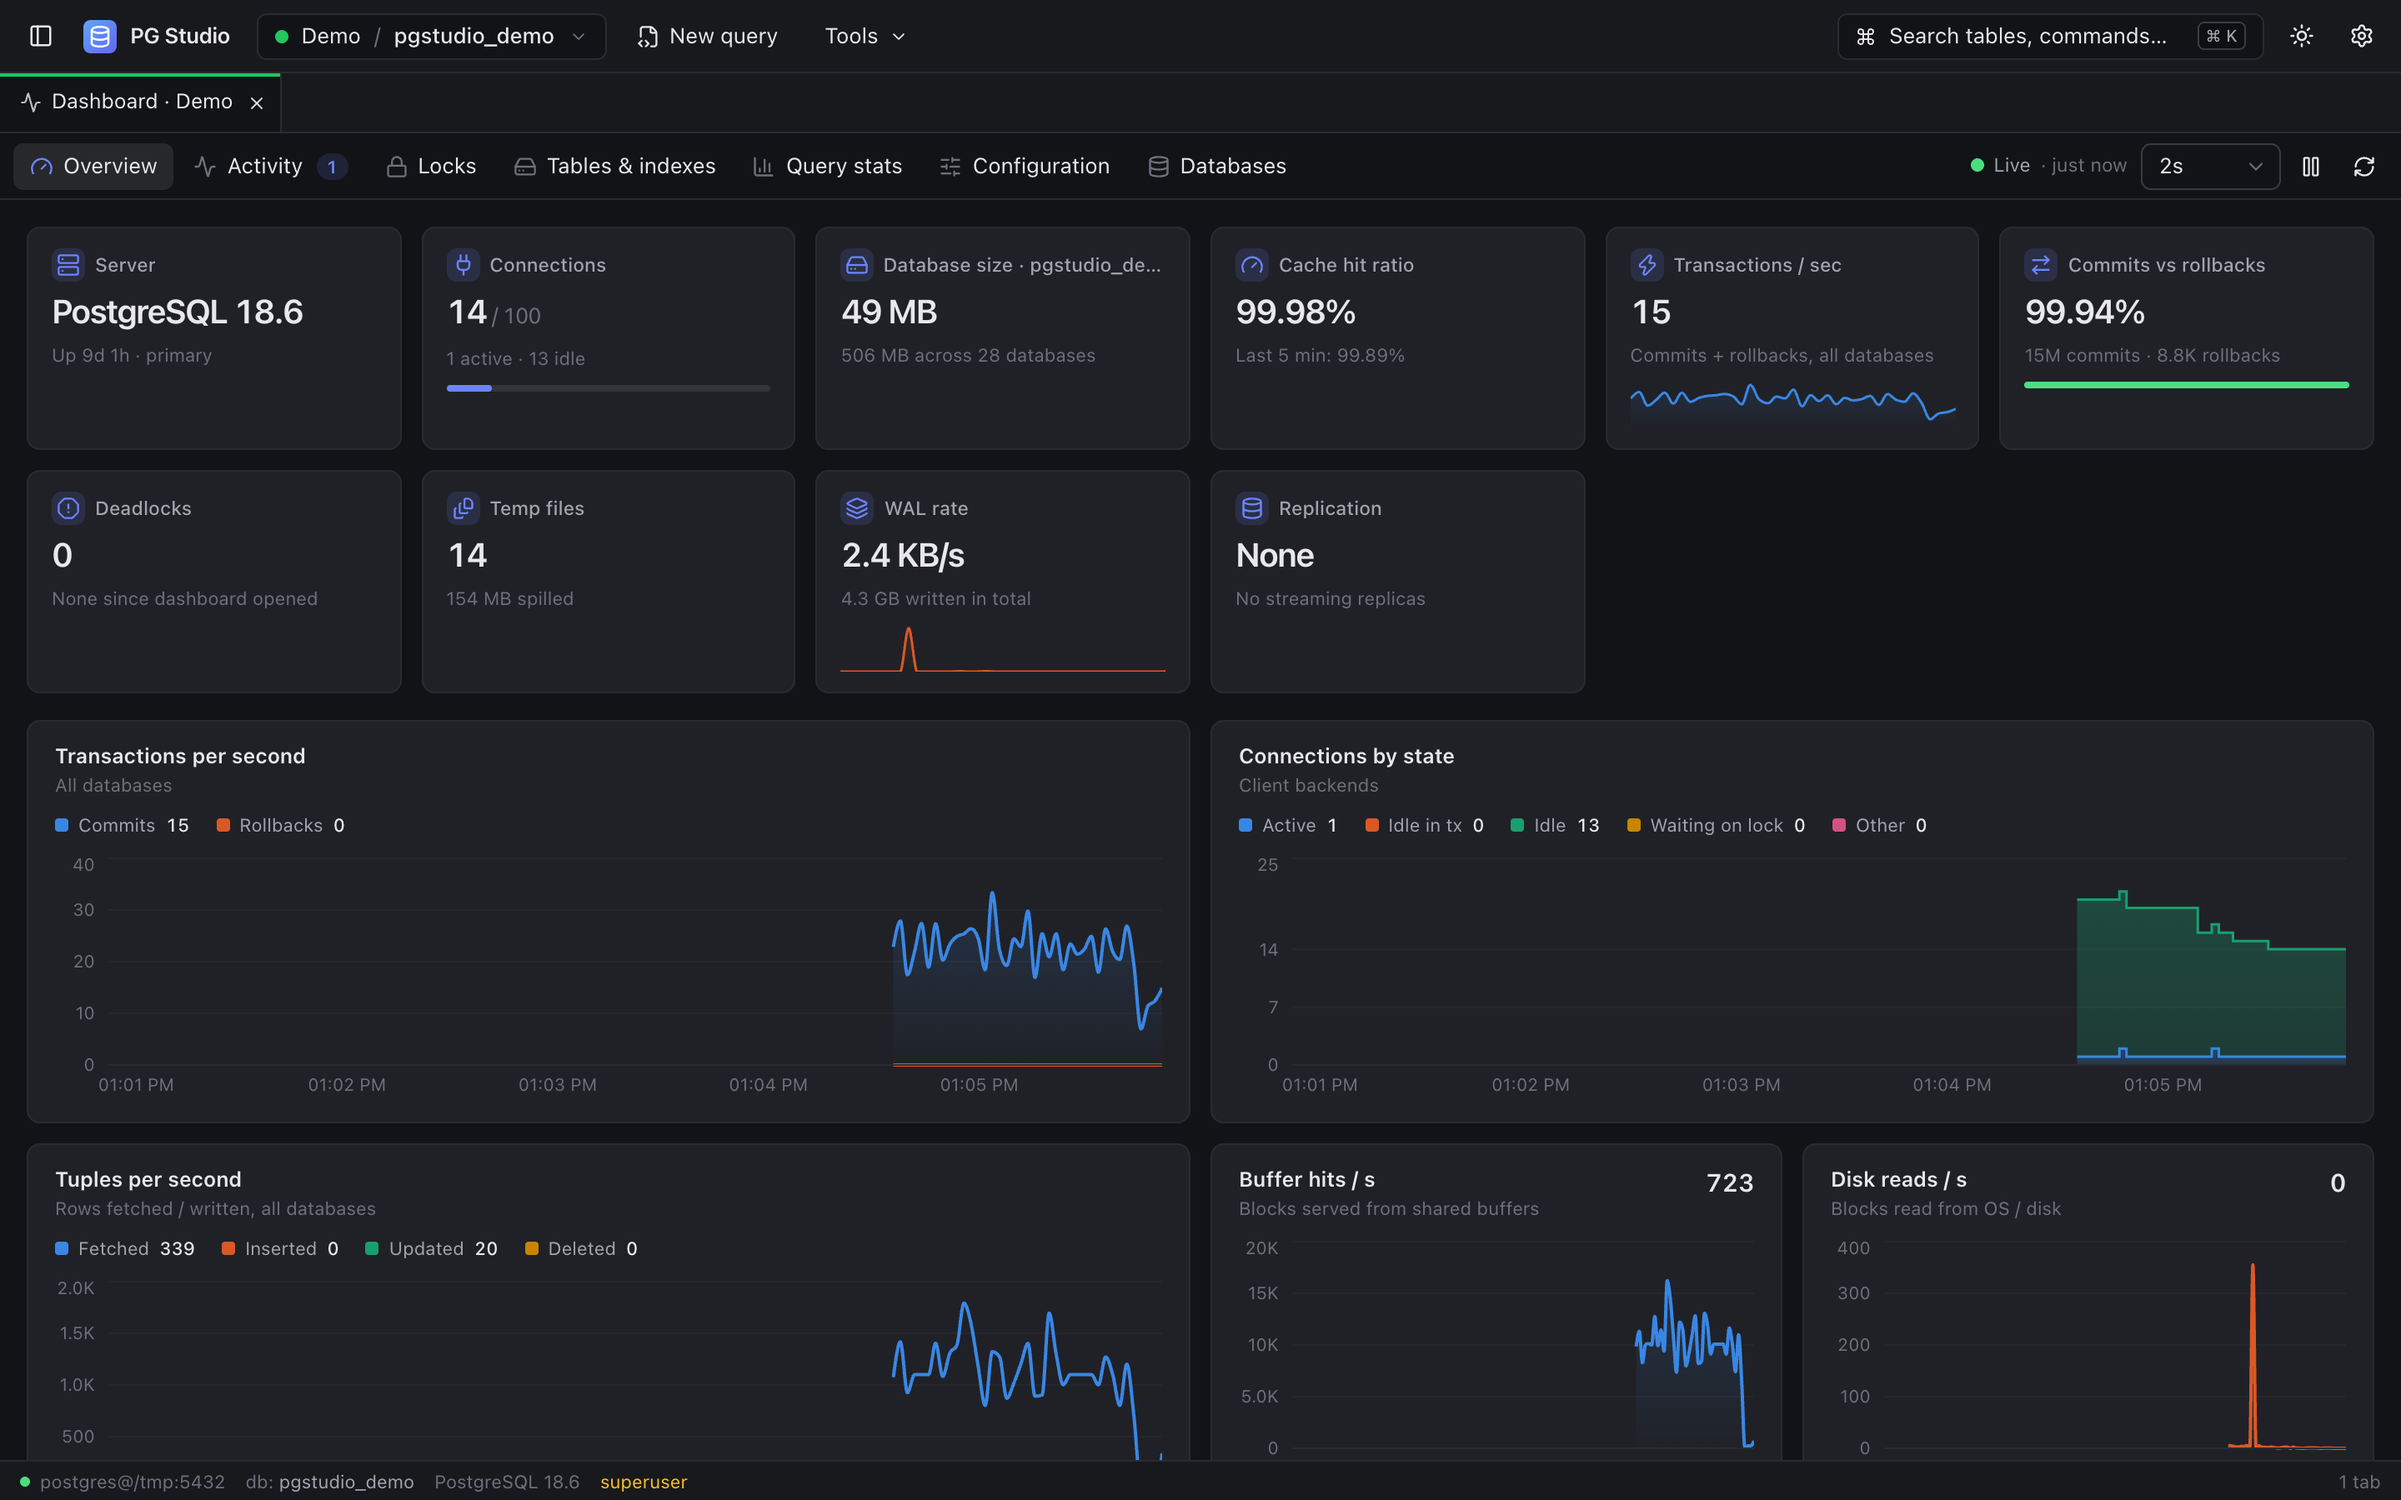
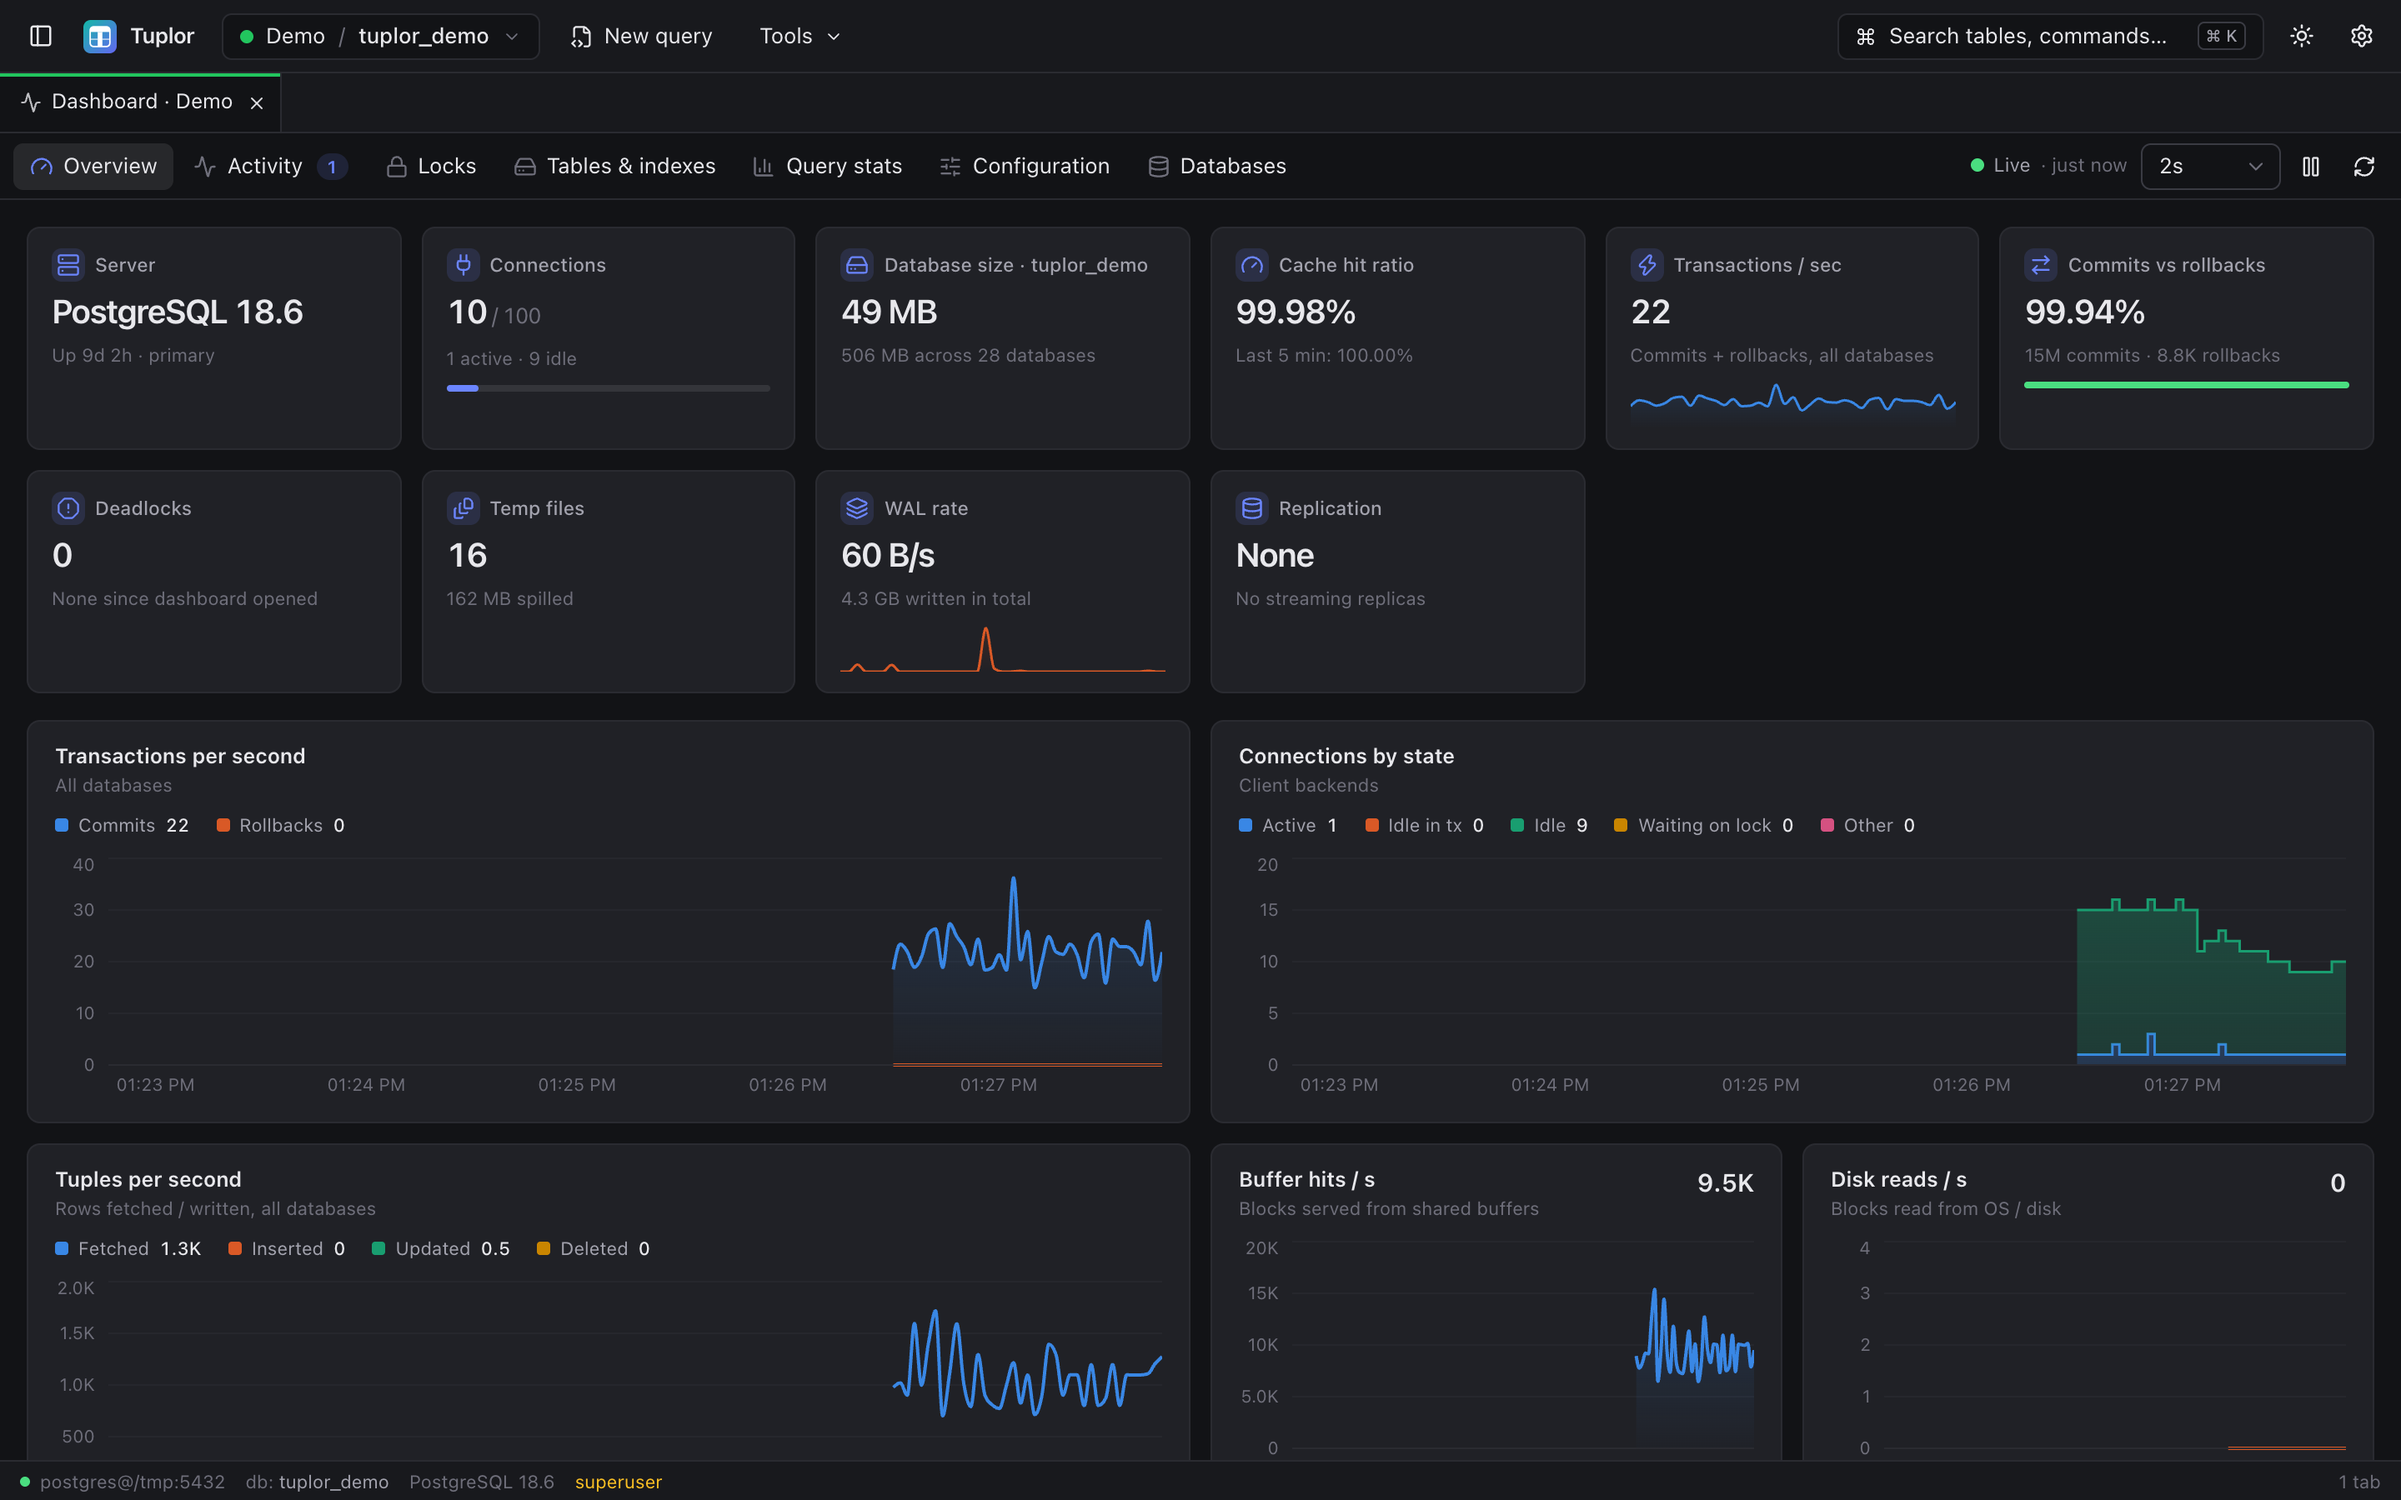
Site: retake screenshots as Tuplor, align accents with new brand
- All 12 screenshots recaptured against tuplor_demo (fresh TUPLOR_HOME,
  port 5601, other databases/roles and OS user name hidden, nothing committed)
- Site accents: keep indigo as the primary accent (matches the app UI in the
  screenshots), switch the secondary cyan to the logo's teal in hero glows,
  headline gradient, primary button and step badges
- OG image glows follow the teal->indigo brand

diff --git a/site/src/styles/global.css b/site/src/styles/global.css
@@ -18,15 +18,16 @@
   --fg: #e9ecf6;
   --muted: #9ba3bd;
   --subtle: #6c748f;
-  --accent: #7c8cff;
-  --accent-strong: #5b5ff0;
+  --accent: #818cf8;
+  --accent-strong: #6366f1;
+  --teal: #2dd4bf;
   --accent-fg: #ffffff;
-  --accent-soft: rgb(124 140 255 / 0.13);
+  --accent-soft: rgb(129 140 248 / 0.13);
   --success: #34d399;
   --warn: #fbbf24;
   --shadow: 0 30px 80px -20px rgb(0 0 0 / 0.7), 0 0 0 1px rgb(255 255 255 / 0.04);
-  --glow-1: rgb(91 95 240 / 0.38);
-  --glow-2: rgb(34 211 238 / 0.14);
+  --glow-1: rgb(99 102 241 / 0.36);
+  --glow-2: rgb(20 184 166 / 0.16);
   color-scheme: dark;
 }
 :root[data-theme='light'] {
@@ -40,14 +41,15 @@
   --muted: #4f5772;
   --subtle: #7d849c;
   --accent: #4f46e5;
-  --accent-strong: #4338ca;
+  --accent-strong: #4f46e5;
+  --teal: #0d9488;
   --accent-fg: #ffffff;
   --accent-soft: rgb(79 70 229 / 0.08);
   --success: #059669;
   --warn: #b45309;
   --shadow: 0 30px 70px -25px rgb(30 35 70 / 0.35), 0 0 0 1px rgb(15 20 40 / 0.06);
-  --glow-1: rgb(99 102 241 / 0.20);
-  --glow-2: rgb(34 211 238 / 0.12);
+  --glow-1: rgb(99 102 241 / 0.18);
+  --glow-2: rgb(20 184 166 / 0.14);
   color-scheme: light;
 }
 @media (min-width: 640px) { :root { --gutter: 24px; } }
@@ -93,11 +95,11 @@ code, kbd, pre { font-family: var(--mono); }
 }
 .btn:active { transform: translateY(1px); }
 .btn-primary {
-  background: linear-gradient(180deg, #6f7bff, var(--accent-strong));
+  background: linear-gradient(115deg, #0f9f94 -10%, #5a5ef0 55%, #6366f1);
   color: var(--accent-fg);
-  box-shadow: 0 10px 30px -10px rgb(91 95 240 / 0.8), inset 0 1px 0 rgb(255 255 255 / 0.22);
+  box-shadow: 0 10px 30px -10px rgb(79 90 230 / 0.75), inset 0 1px 0 rgb(255 255 255 / 0.22);
 }
-.btn-primary:hover { background: linear-gradient(180deg, #7d88ff, #5153e6); }
+.btn-primary:hover { background: linear-gradient(115deg, #13b3a5 -10%, #6468f5 55%, #7073f7); }
 .btn-ghost { background: var(--panel); border-color: var(--border-strong); }
 .btn-ghost:hover { border-color: var(--accent); }
 .btn-lg { height: 60px; padding: 0 24px; font-size: 17px; border-radius: 14px; }
@@ -167,7 +169,7 @@ h1 { margin-top: 22px; display: flex; flex-direction: column; align-items: cente
 }
 .h1-lead, .h1-accent { font-size: clamp(22px, 3.6vw, 34px); font-weight: 700; letter-spacing: -0.025em; }
 .h1-lead { margin-top: 10px; }
-.h1-accent { background: linear-gradient(90deg, var(--accent), #22d3ee); -webkit-background-clip: text; background-clip: text; color: transparent; }
+.h1-accent { background: linear-gradient(90deg, var(--teal), var(--accent) 85%); -webkit-background-clip: text; background-clip: text; color: transparent; }
 .lead { margin-top: 18px; max-width: 620px; font-size: clamp(16px, 2vw, 19px); color: var(--muted); }
 .cta { display: flex; flex-wrap: wrap; justify-content: center; gap: 12px; margin-top: 32px; }
 .hero-note { margin-top: 18px; font-size: 14px; color: var(--subtle); }
@@ -193,7 +195,7 @@ h1 { margin-top: 22px; display: flex; flex-direction: column; align-items: cente
   flex: none; padding: 7px 14px; border-radius: 9px; font-size: 14px; font-weight: 600; color: var(--muted); white-space: nowrap;
 }
 .tabs [role='tab']:hover { color: var(--fg); }
-.tabs [role='tab'][aria-selected='true'] { color: var(--accent-fg); background: var(--accent-strong); box-shadow: 0 6px 18px -8px rgb(91 95 240 / .9); }
+.tabs [role='tab'][aria-selected='true'] { color: var(--accent-fg); background: var(--accent-strong); box-shadow: 0 6px 18px -8px rgb(99 102 241 / .9); }
 .window {
   border-radius: 14px; overflow: hidden; background: var(--panel);
   border: 1px solid var(--border-strong); box-shadow: var(--shadow);
@@ -261,7 +263,7 @@ kbd {
 .step { position: relative; padding: 26px 24px 24px; display: flex; flex-direction: column; align-items: flex-start; }
 .step-n {
   display: inline-flex; align-items: center; justify-content: center; width: 34px; height: 34px; border-radius: 50%;
-  font-weight: 800; color: var(--accent-fg); background: var(--accent-strong);
+  font-weight: 800; color: var(--accent-fg); background: linear-gradient(135deg, #14b8a6, #6366f1);
 }
 .step h3 { margin-top: 14px; font-size: 19px; }
 .step p { margin-top: 8px; color: var(--muted); font-size: 15px; }

diff --git a/site/src/lib/brand-images.ts b/site/src/lib/brand-images.ts
@@ -48,7 +48,7 @@ export async function ogImage(): Promise<Buffer> {
   let cx = 72;
   const chips = [
     { text: `Free & open source · ${SITE.license}`, fill: '#1c2033', stroke: '#353c5c', color: '#c7cdf5' },
-    { text: 'macOS · Apple Silicon', fill: '#4f46e5', stroke: '#4f46e5', color: '#ffffff' },
+    { text: 'macOS · Apple Silicon', fill: '#5a5ef0', stroke: '#5a5ef0', color: '#ffffff' },
   ].map((c) => {
     const w = Math.round(c.text.length * chipFs * 0.58 + 32);
     const out = `<rect x="${cx}" y="502" width="${w}" height="44" rx="22" fill="${c.fill}" stroke="${c.stroke}"/>` +
@@ -60,8 +60,8 @@ export async function ogImage(): Promise<Buffer> {
   const bg = `
   <svg width="${W}" height="${H}" xmlns="http://www.w3.org/2000/svg">
     <defs>
-      <radialGradient id="g1" cx="0.15" cy="0.1" r="0.9"><stop offset="0" stop-color="#4f46e5" stop-opacity="0.55"/><stop offset="1" stop-color="#0b0d12" stop-opacity="0"/></radialGradient>
-      <radialGradient id="g2" cx="0.95" cy="0.95" r="0.7"><stop offset="0" stop-color="#22d3ee" stop-opacity="0.22"/><stop offset="1" stop-color="#0b0d12" stop-opacity="0"/></radialGradient>
+      <radialGradient id="g1" cx="0.15" cy="0.1" r="0.9"><stop offset="0" stop-color="#6366f1" stop-opacity="0.5"/><stop offset="1" stop-color="#0b0d12" stop-opacity="0"/></radialGradient>
+      <radialGradient id="g2" cx="0.95" cy="0.95" r="0.7"><stop offset="0" stop-color="#14b8a6" stop-opacity="0.3"/><stop offset="1" stop-color="#0b0d12" stop-opacity="0"/></radialGradient>
       <filter id="sh" x="-10%" y="-10%" width="130%" height="130%"><feDropShadow dx="0" dy="18" stdDeviation="22" flood-color="#000" flood-opacity="0.55"/></filter>
     </defs>
     <rect width="${W}" height="${H}" fill="#0b0d12"/>
